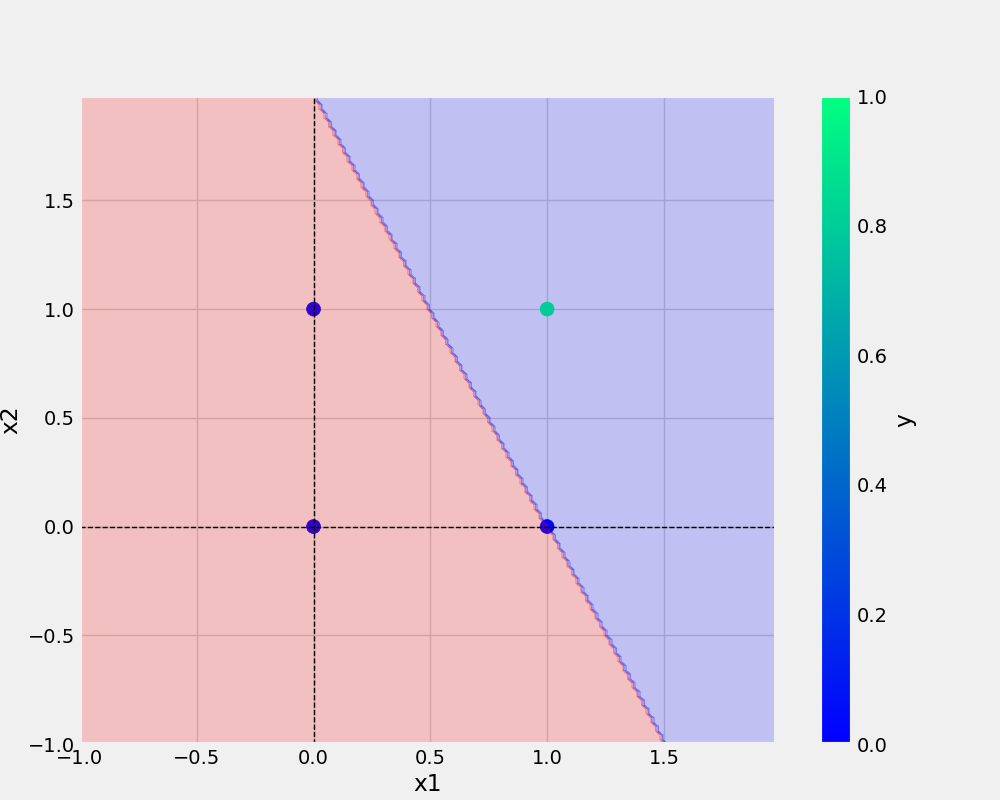
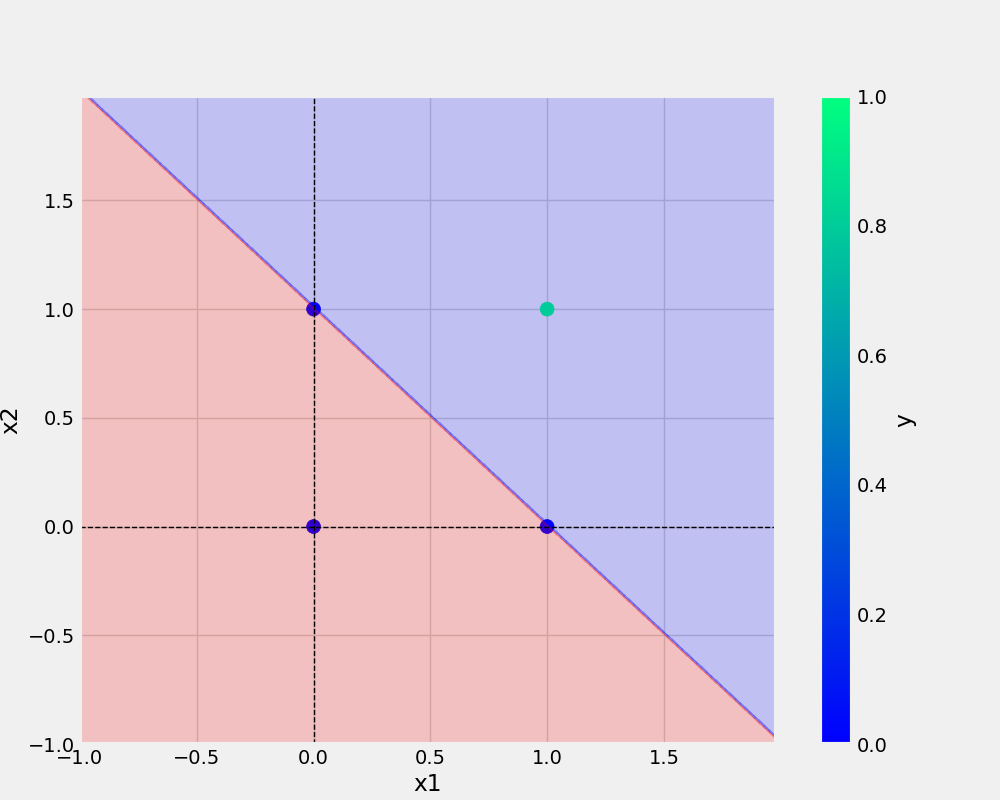
code organise

Changed region(s): [[0.093, 0.125, 0.527, 0.625], [0.527, 0.625, 0.775, 0.9375]]

diff --git a/or.py b/or.py
@@ -21,13 +21,13 @@ def main(data, eta, epochs, filename, plot_name):
 
 if __name__=='__main__': #<< execution will start from here
 
-    AND = {
+    OR = {
         "x1": [0,0,1,1],
         "x2": [0,1,0,1],
-        "y": [0,0,0,1],
+        "y": [0,1,1,1],
     }
 
     ETA = 0.3 # 0 and 1
     EPOCHS = 10
 
-    main(data=AND, eta = ETA, epochs=EPOCHS, filename="and.model", plot_name="and.png")
+    main(data=OR, eta = ETA, epochs=EPOCHS, filename="or.model", plot_name="or.png")
